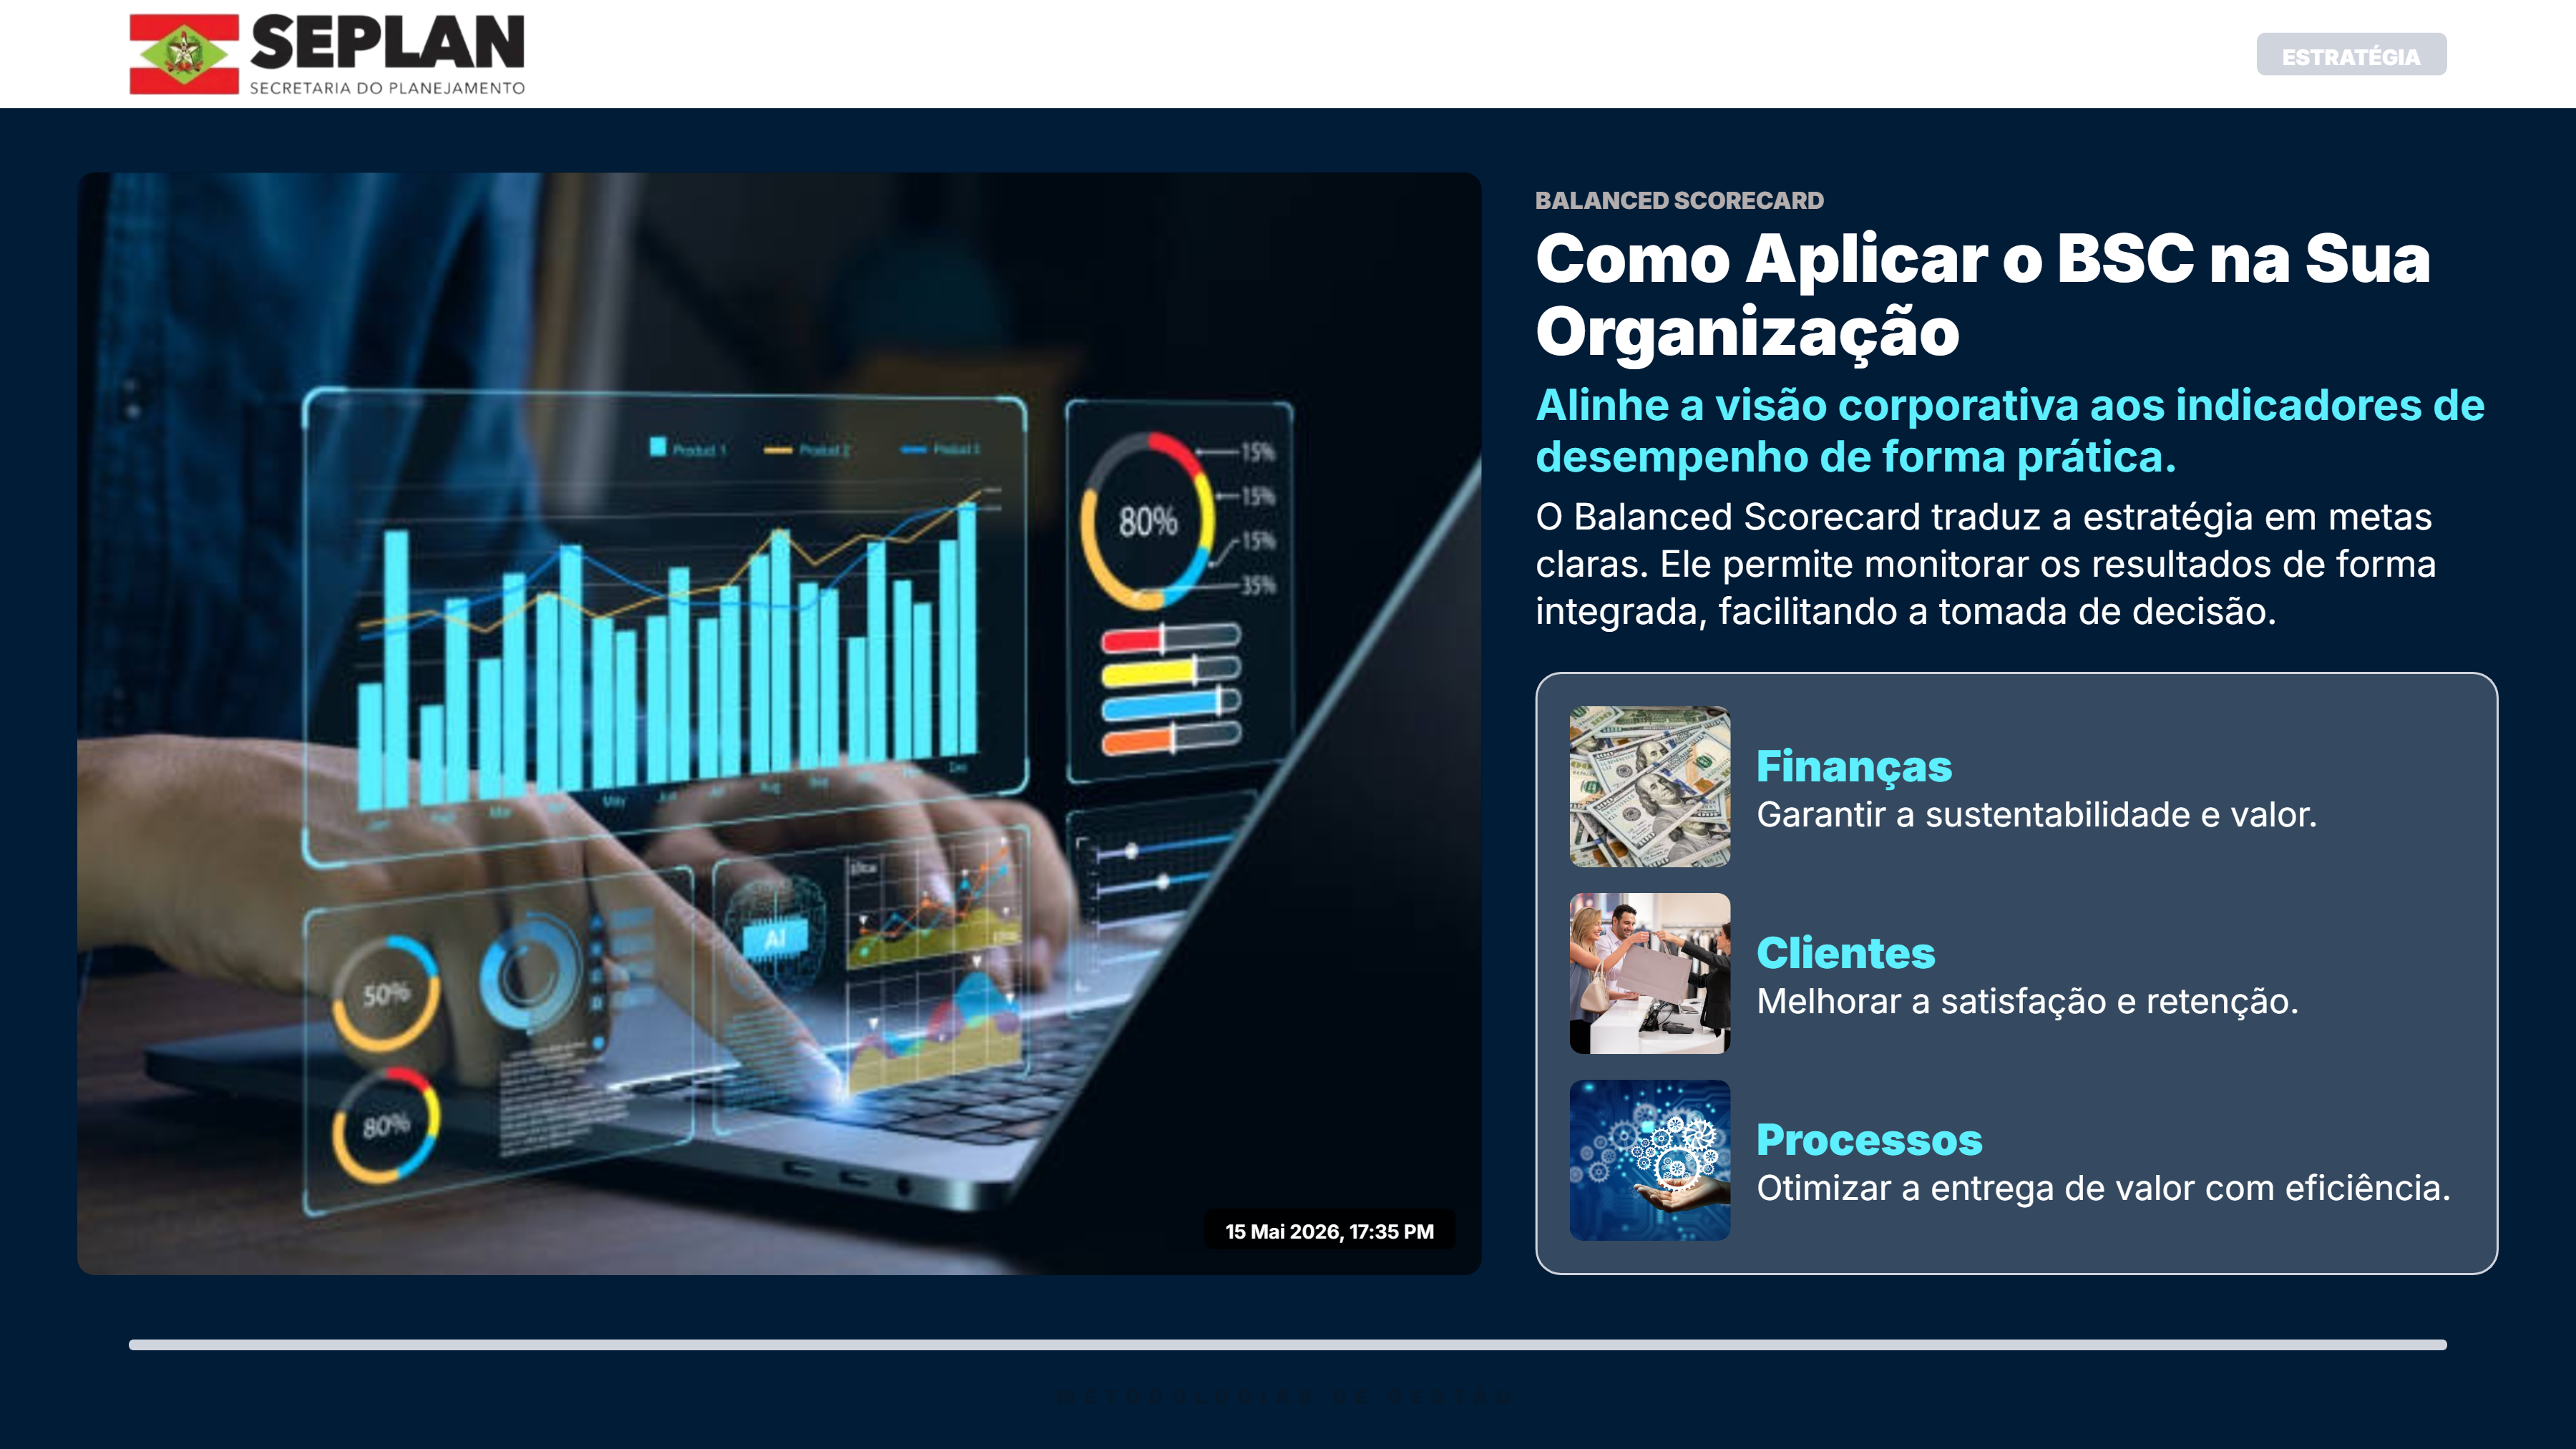
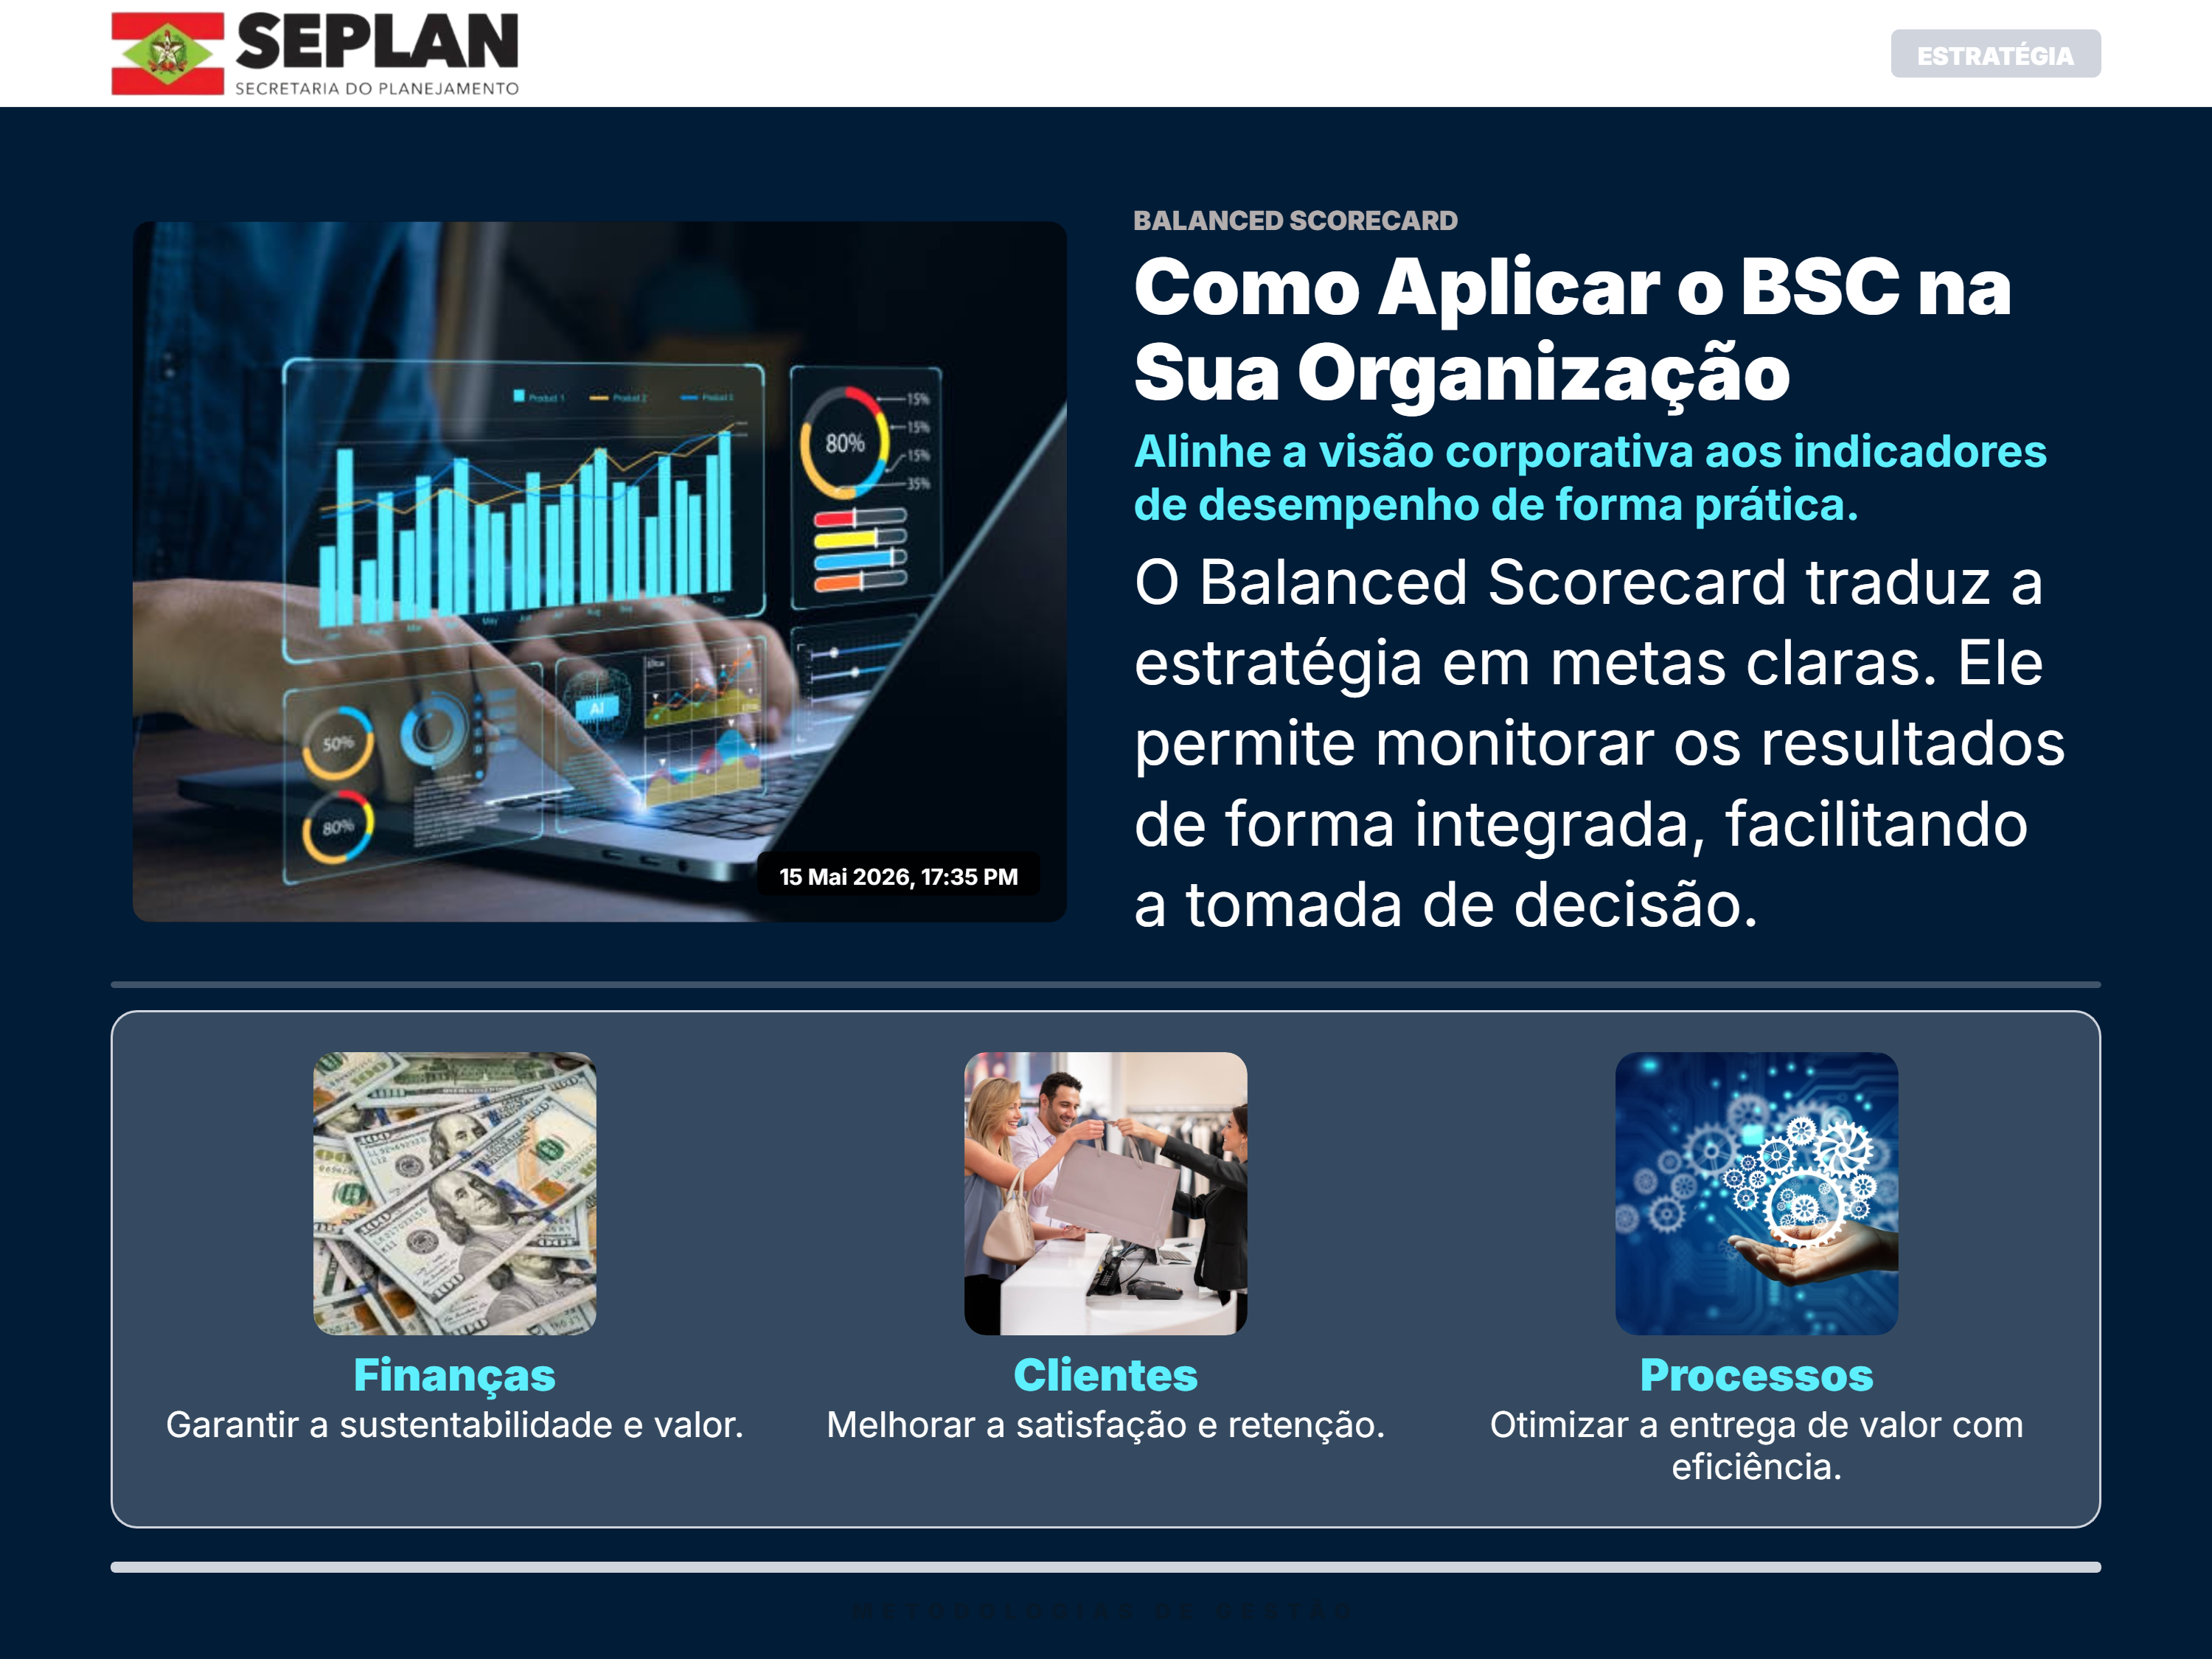
aspect

diff --git a/artigos/style.css b/artigos/style.css
@@ -18,7 +18,7 @@ body {
     overflow: hidden;
 }
 
-/* Barra Lateral - Ampliada para dar mais respiro ao texto longo */
+/* Barra Lateral */
 .sidebar {
     width: 340px;
     min-width: 340px;
@@ -62,7 +62,7 @@ body {
     gap: 16px;
 }
 
-/* Card de Navegação Lateral - Versão com Descrição Completa */
+/* Card de Navegação Lateral */
 .artigo-thumb-card {
     cursor: pointer;
     border: 1px solid #dee2e6;
@@ -108,7 +108,6 @@ body {
     font-weight: 500;
 }
 
-/* Remoção do Clamp: O texto agora flui naturalmente por completo */
 .artigo-thumb-card .descricao {
     font-size: 0.8rem;
     color: #495057;
@@ -184,7 +183,7 @@ body {
     z-index: 1;
 }
 
-/* Card Central Expandido Dinamicamente */
+/* Card Central */
 .preview-card-central {
     position: relative;
     z-index: 2;
@@ -216,12 +215,13 @@ body {
     flex-shrink: 0;
 }
 
-/* Otimização da Imagem de Capa para Preenchimento */
+/* Trava Dinâmica em Aspect Ratio 4:3 */
 .preview-headline-glass {
     width: 100%;
     height: auto;
     max-height: 60vh;
-    object-fit: contain;
+    aspect-ratio: 4 / 3;     /* Força a proporção ideal de fotografia/slideshow */
+    object-fit: cover;       /* Garante preenchimento completo cortando sobras de forma inteligente */
     border-radius: 8px;
     box-shadow: 0 4px 12px rgba(0,0,0,0.3);
     flex-shrink: 1;